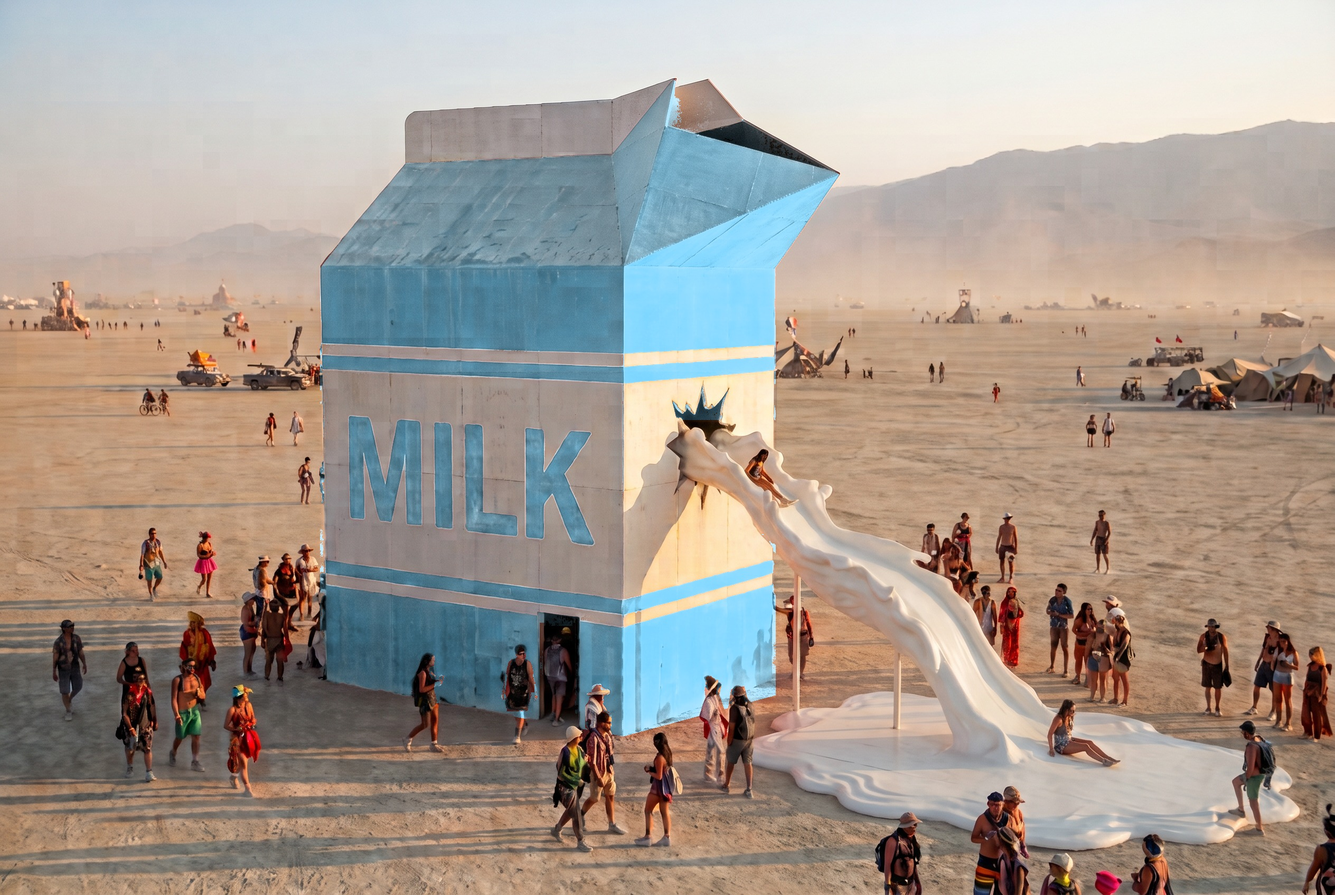
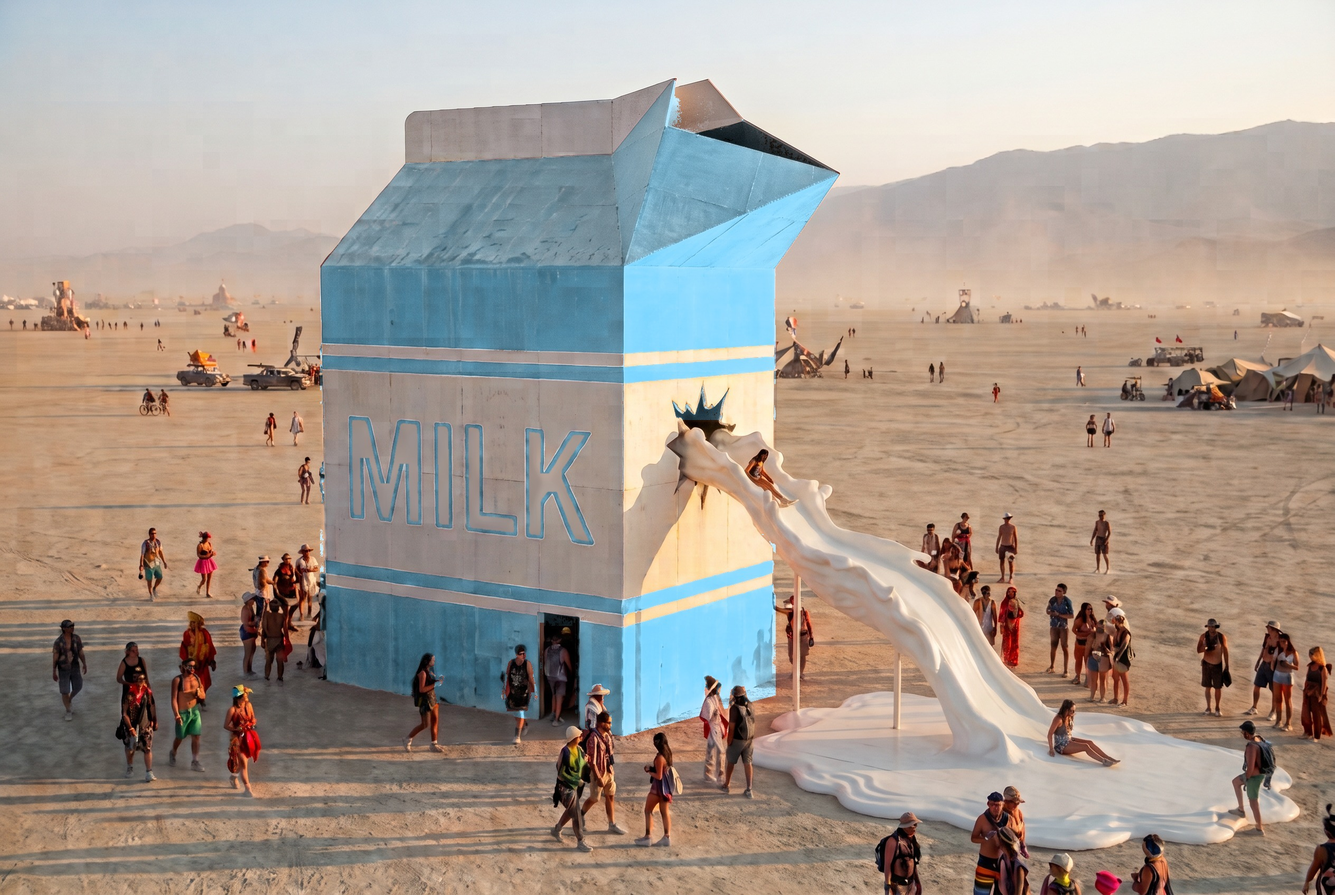
Make "MILK" a baby blue outline instead of filled letters
Claude-Session: https://claude.ai/code/session_01BhQSVgCDAaZsKwAQG1wxra

Changed region(s): [[0.25, 0.4688, 0.4375, 0.5938]]

diff --git a/docs/image-prompts.md b/docs/image-prompts.md
@@ -60,7 +60,7 @@ and proportions only, not the colours"). Then change one thing at a time in foll
 
 > Photorealistic: a 40 ft tall wooden milk carton art installation standing upright on the
 > Burning Man playa at golden hour. One-gallon proportions (25 x 19 ft footprint, tall walls,
-> short gable roof with a thin fin). Retro baby-blue-and-white carton paint with big "MILK"
+> short gable roof with a thin fin). Retro baby-blue-and-white carton paint with big outlined (hollow) "MILK"
 > lettering, no brands. The spout on one narrow end is pulled open like a real carton, its
 > tip just above the fin, the diamond-shaped top open to the sky. About 12 ft up that end
 > wall, a jagged tear gushes glossy white milk that becomes a sculpted white wooden slide

diff --git a/docs/design-decisions.md b/docs/design-decisions.md
@@ -16,6 +16,7 @@ a yes or no. **Open** means it is still undecided (see `open-questions.md`).
 - **Decided.** No wrap-around slide. The slide comes out of a tear in the spout-end wall at
   the 12 ft landing and runs straight out (about 32 ft, steepest 30 degrees) into a puddle.
 - **Decided.** Baby blue and white milk carton colours (replaces the earlier red and white).
+- **Decided.** The word "MILK" on the long side is a baby blue outline, not filled in.
 - **Assumed.** The roof/fin split was read off a reference picture; spout tip 4.8 ft out and
   1.4 ft above the fin, crease positions scaled up from Allison's sketch.
 - **Assumed.** Spiral stairs 4.5 ft clear at 31 degrees, landings at every corner plus one
